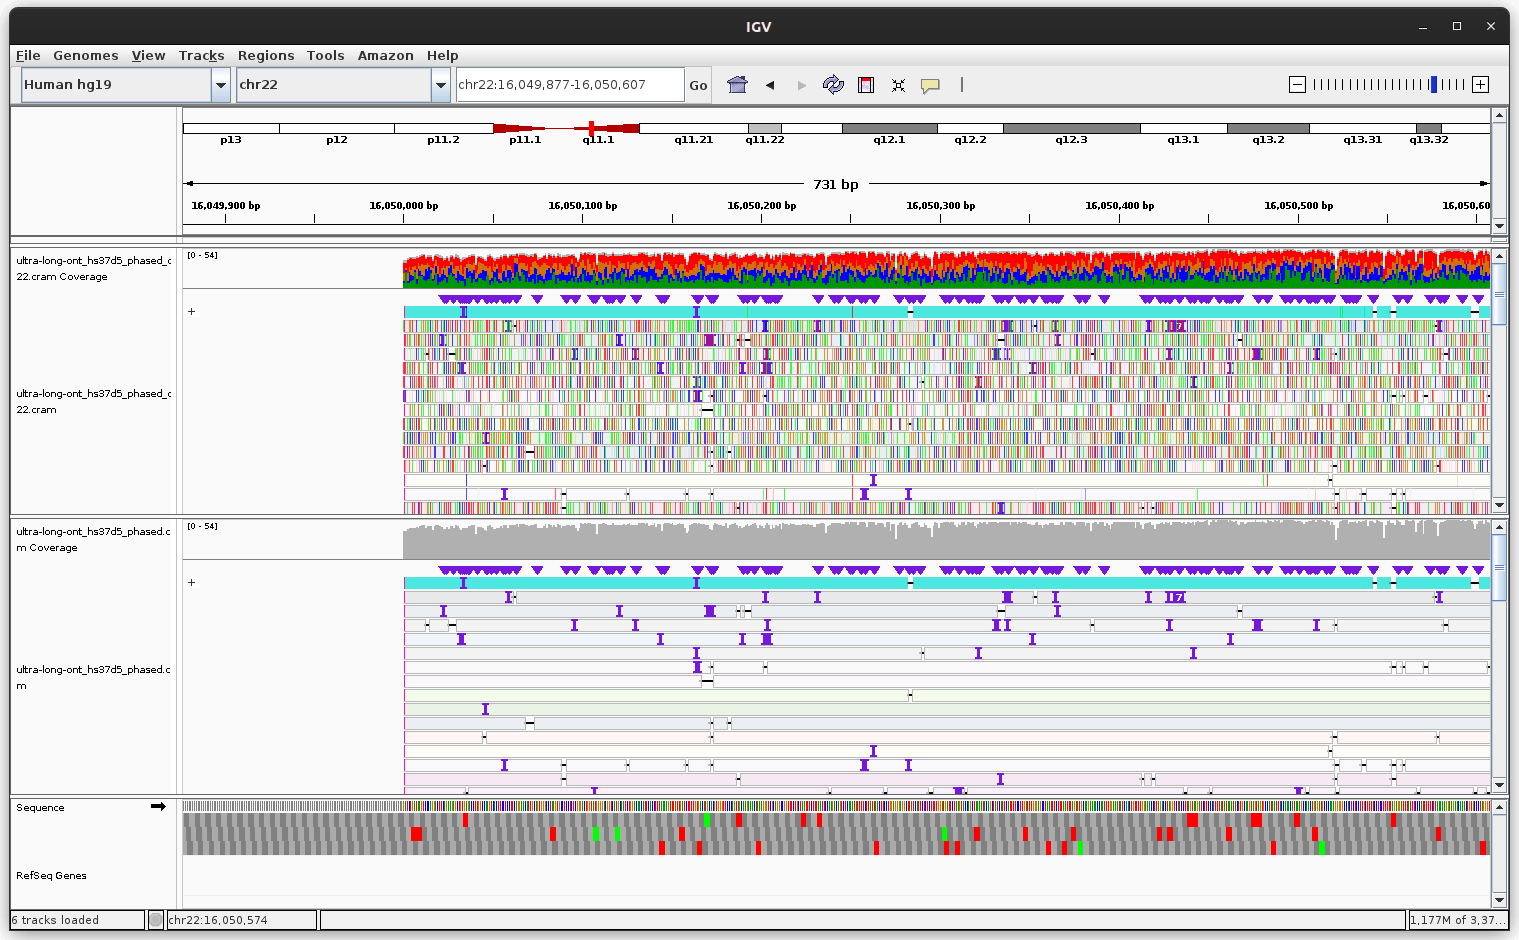
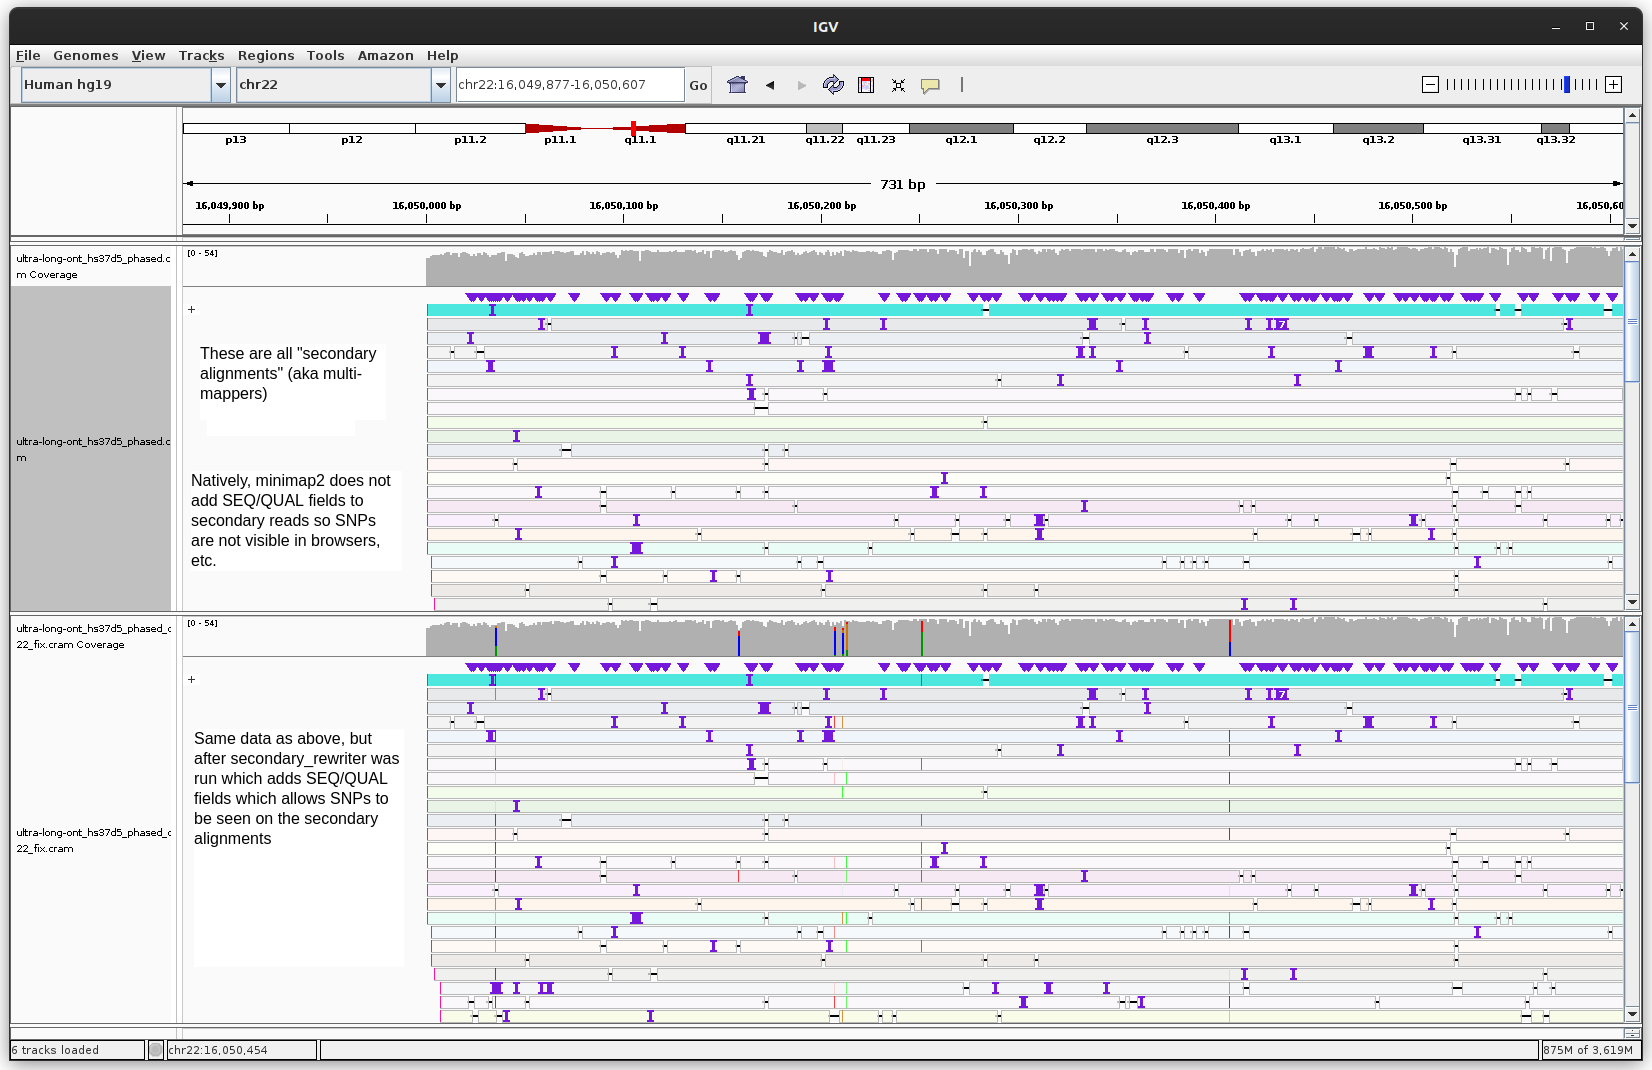
Reverse complement the SEQ if not matching

diff --git a/src/main.rs b/src/main.rs
@@ -70,9 +70,16 @@ fn main() -> Result<(), Box<dyn Error>> {
                 for secondary_line in list {
                   let secondary_rev = get_flags(&secondary_line) & 16;
                   let mut vec: Vec<&str> = secondary_line.split("\t").collect();
-                  vec[9] = &seq;
+
                   vec[10] = &qual;
-                  println!("{}", vec.join("\t"));
+                  if primary_rev != secondary_rev {
+                    let str = revcomp(seq);
+                    vec[9] = &str;
+                    println!("{}", vec.join("\t"));
+                  } else {
+                    vec[9] = &seq;
+                    println!("{}", vec.join("\t"));
+                  }
                 }
               }
               None => {}
@@ -87,6 +94,45 @@ fn main() -> Result<(), Box<dyn Error>> {
   }
 
   Ok(())
+}
+
+fn is_dna(dna: char) -> bool {
+  match dna {
+    'A' | 'a' | 'C' | 'c' | 'G' | 'g' | 'T' | 't' | 'U' | 'u' => true,
+    _ => false,
+  }
+}
+
+// this revcomp is CC0 https://github.com/delagoya/rusty-bio/blob/gh-pages/LICENSE
+fn revcomp(dna: &str) -> String {
+  // result vector
+  let mut rdna: String = String::with_capacity(dna.len());
+
+  // iterate through the input &str
+  for c in dna.chars().rev() {
+    // test the input
+    match is_dna(c) {
+      false => panic!("Input sequence base is not DNA: {}", dna),
+      true => rdna.push(switch_base(c)),
+    }
+  }
+  rdna
+}
+
+fn switch_base(c: char) -> char {
+  match c {
+    'a' => 't',
+    'c' => 'g',
+    't' => 'a',
+    'g' => 'c',
+    'u' => 'a',
+    'A' => 'T',
+    'C' => 'G',
+    'T' => 'A',
+    'G' => 'C',
+    'U' => 'A',
+    _ => 'N',
+  }
 }
 
 #[inline(always)]

diff --git a/README.md b/README.md
@@ -1,10 +1,14 @@
 # secondary_rewriter
 
 Some aligners such as minimap2 do not write the SEQ and QUAL fields to
-secondary alignments (https://github.com/lh3/minimap2/issues/458) making it
+secondary alignments (which are sometimes called multi-mappers, see Multiple
+mapping in SAMv1.pdf https://samtools.github.io/hts-specs/SAMv1.pdf) making it
 hard to analyze them (for example, SNPs will not be visible in a genome browser
-for secondary alignments). This program adds these back, referring to the
-primary alignment to get the SEQ and QUAL, and adding them to the secondaries.
+for secondary alignments and variant calling would not work on them). This
+program adds SEQ/QUAL to secondary alignments, referring to the primary
+alignment to get the SEQ and QUAL.
+
+Minimap2 reference https://github.com/lh3/minimap2/issues/458 https://github.com/lh3/minimap2/pull/687
 
 ## Install
 
@@ -21,7 +25,6 @@ cargo install secondary_rewriter
 This small shell script automates the multi-step pipeline (supports BAM or CRAM)
 
 ```
-
 #!/bin/bash
 
 # write_secondaries.sh
@@ -36,7 +39,6 @@ MEM=${5:-1G}
 
 samtools view -@$THR -h $1 -T $2 -f256 > sec.txt
 samtools view -@$THR -h $1 -T $2 -F256 | secondary_rewriter --secondaries sec.txt | samtools sort -@$THR -m $MEM - -o $3
-
 ```
 
 ## Two-pass strategy
@@ -48,21 +50,31 @@ The two-pass strategy works as follows
 2. Second pass: read secondary alignments from external file into memory,
    and then scan original SAM/BAM/CRAM to add SEQ and QUAL fields on the
    primary alignments to the secondary alignments, and pipe to `samtools sort`
-   (needed because all the new secondary reads with BAM/CRAM at the end)
+   (needed because all the secondary reads will be out of order, added right
+   after the primary alignment where the SEQ/QUAL is found)
 
-This avoids loading the entire SAM/BAM/CRAM into memory, but does require a
-re-sort with `samtools sort`. The sort is the most expensive part of the
-process.
+This process avoids loading the entire SAM/BAM/CRAM into memory, but does
+require the `samtools sort` which is a bit expensive. It does load all the
+secondary alignments (pre-them-having SEQ/QUAL fields which is generally on the
+order of a couple gigabytes instead of hundred(s) of gigabytes) into memory
+though.
 
 ## Result
 
-Your secondary reads will now display with SNPs and such in a genome browser
+Your secondary reads will now display with SNPs and such in a genome browser.
+Having SEQ is also important for variant calling.
 
-Screenshots from both IGV and JBrowse showing the same file before and after calling with `secondary_rewriter`
+Screenshots from both IGV and JBrowse 2 (just to show it's not browser
+specific) showing the same file before and after calling with
+`secondary_rewriter` on a region of the genome with many secondary alignments
+in a centromeric region (ultra long read hs37d5 from
+https://ftp-trace.ncbi.nlm.nih.gov/ReferenceSamples/giab/data/AshkenazimTrio/HG002_NA24385_son/Ultralong_OxfordNanopore/guppy-V2.3.4_2019-06-26/
 
 ![](img/jbrowse.png)
+Screenshot of before/after running secondary_rewriter in JBrowse 2
 
 ![](img/igv.png)
+Screenshot of same data, before/after, in IGV
 
 ## Help
 
@@ -80,3 +92,33 @@ OPTIONS:
     -V, --version                      Print version information
 
 ```
+
+## Runtime
+
+The speed of this program is mostly limited by samtools view/samtools sort
+efficiency, so if you give samtools tons of threads and memory your performance
+will improve.
+
+On a t2.2xlarge AWS instance it took 189 minutes (~3 hours) with 8 threads and
+1GB per-thread sorting memory to run secondary_rewriter on a 218 gigabyte BAM
+file (ultra long read hs37d5 from
+https://ftp-trace.ncbi.nlm.nih.gov/ReferenceSamples/giab/data/AshkenazimTrio/HG002_NA24385_son/Ultralong_OxfordNanopore/guppy-V2.3.4_2019-06-26/)
+
+Note also that the output data file is larger, in this example the result was
+267Gb BAM vs the original 218Gb BAM.
+
+## Possible consideration
+
+This wouldn't output the right thing at the moment if the secondary alignments
+use hard clipping in the CIGAR (`H` operator) but I haven't seen minimap2
+output this in practice. If you see this let me know and a fix can probably be
+made.
+
+I also have not fully validated whether QUAL is in the right orientation (SEQ
+needs to be reverse complemented when the secondary and primary are on
+different strands) but this program does not reverse the QUAL field.
+
+Finally, you may also want to think about the implications of how to treat secondary
+alignments in your pipeline, for while this program can help in this particular
+circumstance, it may be unclear what the implications of these
+secondary/multi-mapping alignments are
